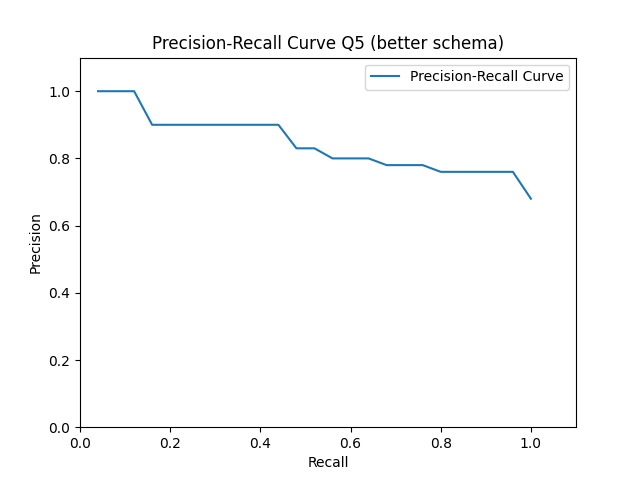
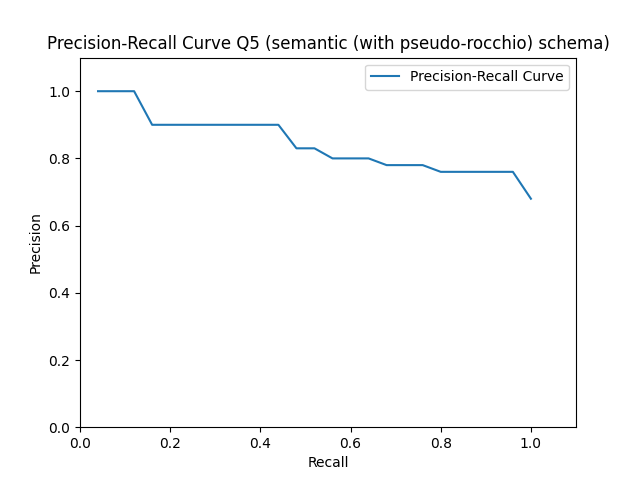
evaluation on mode 6

Changed region(s): [[0.0625, 0.0625, 0.9688, 0.125]]

diff --git a/scripts/evaluation.py b/scripts/evaluation.py
@@ -8,17 +8,33 @@ QUERIES = 5
 SCHEMAS = 2
 
 schemas_dict = {
-    1 : "simple",
-    2 : "better lexical",
-    3 : "simple semantic",
+    1: "simple",
+    2: "better lexical",
+    3: "semantic",
+    4: "semantic (with pseudo-rocchio)",
+    5: "semantic (with rocchio)",
+    6: "hybrid (with pseudo-rocchio)",
+
+}
+
+schema_dir = {
+    "1": "schema_1",
+    "2": "schema_2",
+    "3": "schema_3-mode_3",
+    "4": "schema_3-mode_4",
+    "5": "schema_3-mode_5",
+    "6": "schema_3-mode_6",
 
 }
 
 """
 read the evaluation file for @query in @schema
 """
+
+
 def getResults(query: int, schema: str) -> list:
-    path = f"../solr/queries/schema_{schema}/q{query}/evaluation.json"
+    schema_dir_name = schema_dir[schema]
+    path = f"../solr/queries/{schema_dir_name}/q{query}/evaluation.json"
     with open(path, 'r') as file:
         data = json.load(file)
         file.close()
@@ -53,14 +69,12 @@ def recall_values(results: list) -> float:
 
 # MAP
 def mean_average_precision(stats, schemas):
-
     result = {schema: 0 for schema in schemas}
     count = {schema: 0 for schema in schemas}
 
     for entry in stats:
         schema = entry["schema"]
         average_precision = entry["AvP"]
-
 
         result[int(schema)] += average_precision
         count[int(schema)] += 1
@@ -111,18 +125,16 @@ def precision_recall(results: list, tuple, query: int) -> None:
     plt.xlim(0, 1.1)
     plt.ylim(0, 1.1)
 
-    if tuple[0] == 1:
-        schema = "simple"
-    else:
-        schema = "better"
 
+    schema_dir_name = schema_dir[str(tuple[0])]
     plt.plot(x, y, label='Precision-Recall Curve')
     plt.xlabel('Recall')
     plt.ylabel('Precision')
-    plt.title(f'Precision-Recall Curve Q{query} ({schema} schema)')
+    plt.title(f'Precision-Recall Curve Q{query} ({schemas_dict[tuple[0]]} schema)')
     plt.legend()
-    plt.savefig(f"../solr/queries/schema_{tuple[0]}/q{tuple[1]}/PR_curve_s{tuple[0]}q{tuple[1]}.png")
+    plt.savefig(f"../solr/queries/{schema_dir_name}/q{tuple[1]}/PR_curve_s{tuple[0]}q{tuple[1]}.png")
     plt.close()
+
 
 def precision_recall_compare(results: dict, query: int, schemas: list[int]) -> None:
     plt.figure()
@@ -132,7 +144,6 @@ def precision_recall_compare(results: dict, query: int, schemas: list[int]) -> N
 
         x = [round(0.04 * x, 2) for x in range(1, 26)]
         y = acc_results(precision_results, recall_results)
-
 
         schema_name = schemas_dict[schema]
         allschemas = "".join(map(str, schemas))
@@ -147,6 +158,7 @@ def precision_recall_compare(results: dict, query: int, schemas: list[int]) -> N
     plt.legend()
     plt.savefig(f"../solr/evaluation/combined_PR_curve_q{query}_s{allschemas}.png")
     plt.close()
+
 
 def compute_rcs(results: dict, query: int):
     for k, v in results.items():
@@ -168,8 +180,6 @@ def evaluate(query: int, schema: str) -> list:
     }
 
     return [stats, results]
-
-
 
 
 def combine_all_queries_graph(results: dict, schemas: list[int]) -> None:
@@ -204,16 +214,15 @@ def combine_all_queries_graph(results: dict, schemas: list[int]) -> None:
     plt.savefig(f"../solr/evaluation/combined_PR_curve_all_queries.png")
     plt.close()
 
-def main(milestone, mode):
 
-    schemas = [1,2]
+def main(milestone, mode):
+    schemas = [1, 2]
     if milestone not in [2, 3]:
         print("Invalid milestone. Please provide 2 or 3.")
         return
 
     if milestone == 3:
-        schemas = [2,3]
-
+        schemas = [2, 3, 4, 5,6]
 
     stats = []
     results = {}
@@ -243,13 +252,14 @@ def main(milestone, mode):
 
     print(json.dumps(output, indent=2))
 
-if __name__ == "__main__":
 
+if __name__ == "__main__":
+    """
     parser = argparse.ArgumentParser(description="Solr Evaluation")
     parser.add_argument("milestone", type=int, help="Select the milestone to evaluate")
     parser.add_argument("mode", type=str, help="Select the type of evaluation")
     args = parser.parse_args()
     
     main(args.milestone, args.mode)
-
-    #main(3,".")
+    """
+    main(3, ".")

diff --git a/scripts/search.py b/scripts/search.py
@@ -113,7 +113,7 @@ def search_solr(question, mode, embedding=None):
             }
             response = requests.post(SOLR_URL3, data=params_embbed, headers=headers)
 
-        if mode > 3:
+        if 6 > mode > 3:
             updated_query_vector = None
             query_vector = embedding
             data = response.json()
@@ -136,7 +136,13 @@ def search_solr(question, mode, embedding=None):
                 updated_query_vector = rocchio_algorithm(query_vector, relevant_docs, non_relevant_docs)
 
             if mode == 6:
-                params_embbed["bq"] = f"{{!knn f=vector}}{updated_query_vector}"
+                # params_embbed["bq"] = f"{{!knn f=vector}}{updated_query_vector}"
+                params_embbed = {
+                    "q": f"{{!knn f=vector topK=25}}{embedding}",
+                    "fl": "name,link",
+                    "rows": 25,
+                    "wt": "json"
+                }
             else:
                 params_embbed["q"] = f"{{!knn f=vector topK=25}}{updated_query_vector}"
             headers = {
@@ -220,6 +226,3 @@ if __name__ == "__main__":
     main(args)
     """
     main(6)
-
-
-
